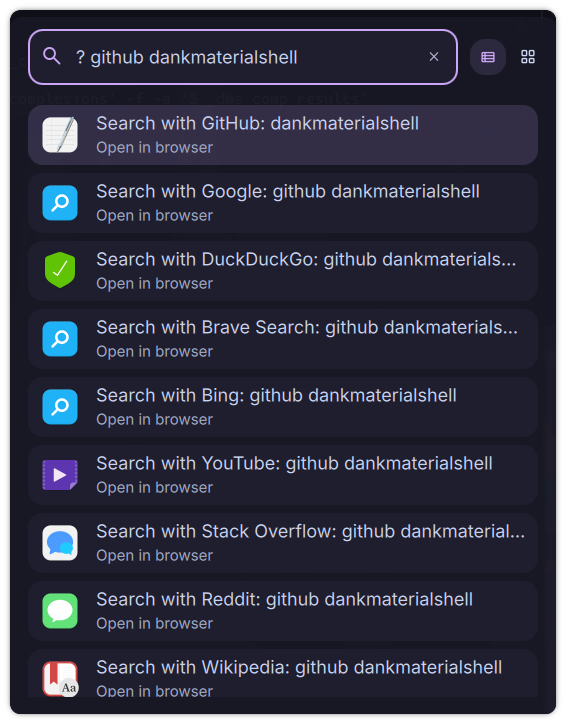
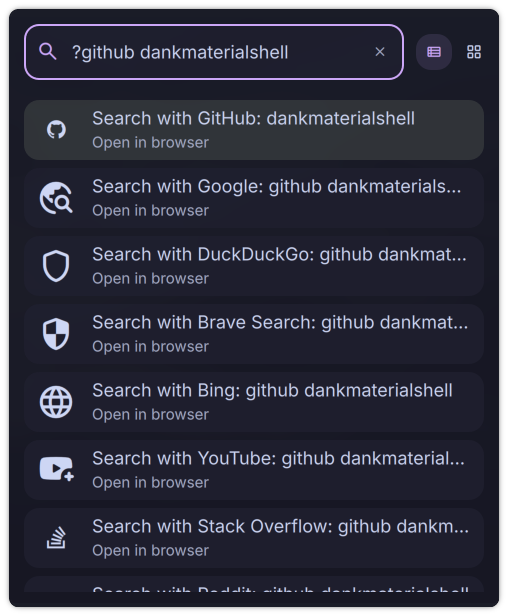
feat: improve search engine UI and documentation
- Rename "Arch Linux Packages" to "Arch Linux Wiki" with correct wiki URL for accurate results
- Update icons for YouTube, GitHub, IMDb, MDN and others to more appropriate symbols
- Remove unnecessary separator item from the engine list for cleaner UI
- Enhance README formatting and add clearer usage examples for better onboarding
- Replace screenshot with a smaller, updated image reflecting the UI changes

diff --git a/WebSearch.qml b/WebSearch.qml
@@ -44,14 +44,14 @@ Item {
         {
             id: "youtube",
             name: "YouTube",
-            icon: "material:smart_display",
+            icon: "material:youtube_activity",
             url: "https://www.youtube.com/results?search_query=%s",
             keywords: ["youtube", "video", "yt"]
         },
         {
             id: "github",
             name: "GitHub",
-            icon: "unicode:",
+            icon: "unicode:",
             url: "https://github.com/search?q=%s",
             keywords: ["github", "code", "git"]
         },
@@ -121,7 +121,7 @@ Item {
         {
             id: "imdb",
             name: "IMDb",
-            icon: "material:live_tv",
+            icon: "unicode:",
             url: "https://www.imdb.com/find?q=%s",
             keywords: ["imdb", "movies", "tv"]
         },
@@ -134,15 +134,15 @@ Item {
         },
         {
             id: "archlinux",
-            name: "Arch Linux Packages",
-            icon: "unicode:",
-            url: "https://archlinux.org/packages/?q=%s",
+            name: "Arch Linux Wiki",
+            icon: "material:terminal",
+            url: "https://wiki.archlinux.org/index.php?search=%s",
             keywords: ["arch", "linux", "packages"]
         },
         {
             id: "aur",
             name: "AUR",
-            icon: "unicode:",
+            icon: "unicode:",
             url: "https://aur.archlinux.org/packages?K=%s",
             keywords: ["aur", "arch", "packages"]
         },
@@ -170,7 +170,7 @@ Item {
         {
             id: "mdn",
             name: "MDN Web Docs",
-            icon: "material:book_online",
+            icon: "material:code_blocks",
             url: "https://developer.mozilla.org/en-US/search?q=%s",
             keywords: ["mdn", "mozilla", "web", "docs"]
         }
@@ -203,14 +203,6 @@ Item {
                 name: "Type a search query",
                 icon: "unicode:🔍",
                 comment: "Search the web with your default engine (" + getEngineName(defaultEngine) + ")",
-                action: "noop",
-                categories: ["Web Search"]
-            })
-
-            items.push({
-                name: "──────── Available Search Engines ────────",
-                icon: "apps",
-                comment: "Built-in and custom search engines",
                 action: "noop",
                 categories: ["Web Search"]
             })
@@ -266,7 +258,7 @@ Item {
             if (engine.id !== primaryEngineId) {
                 items.push({
                     name: "Search with " + engine.name + ": " + (matchedEngineId ? fallbackQuery : searchQuery),
-                    icon: engine.icon || "unicode:🔍",
+                    icon: engine.icon || "material:search",
                     comment: "Open in browser",
                     action: "search:" + engine.id + ":" + (matchedEngineId ? fallbackQuery : searchQuery),
                     categories: ["Web Search"]

diff --git a/README.md b/README.md
@@ -17,11 +17,13 @@ A DankMaterialShell launcher plugin for searching the web with 23+ built-in sear
 ## Installation
 
 ### From Plugin Registry (Recommended)
+
 ```bash
 # Coming soon - will be available via DMS plugin manager
 ```
 
 ### Manual Installation
+
 ```bash
 # Copy plugin to DMS plugins directory
 cp -r WebSearch ~/.config/DankMaterialShell/plugins/
@@ -36,6 +38,7 @@ cp -r WebSearch ~/.config/DankMaterialShell/plugins/
 ## Usage
 
 ### Basic Search
+
 1. Open launcher (Ctrl+Space)
 2. Type `?` followed by search query
 3. Examples:
@@ -44,7 +47,9 @@ cp -r WebSearch ~/.config/DankMaterialShell/plugins/
 4. Select engine and press Enter to open browser
 
 ### Engine-Specific Search
+
 Use keywords to search specific engines directly:
+
 - `? github awesome-linux` - Search GitHub
 - `? youtube music video` - Search YouTube
 - `? wiki quantum physics` - Search Wikipedia
@@ -53,12 +58,14 @@ Use keywords to search specific engines directly:
 ## Built-in Search Engines
 
 ### General Search
+
 - **Google** - Keywords: `google`, `search`
 - **DuckDuckGo** - Keywords: `ddg`, `duckduckgo`, `privacy`
 - **Brave Search** - Keywords: `brave`, `privacy`
 - **Bing** - Keywords: `bing`, `microsoft`
 
 ### Development
+
 - **GitHub** - Keywords: `github`, `code`, `git`
 - **Stack Overflow** - Keywords: `stackoverflow`, `stack`, `coding`
 - **npm** - Keywords: `npm`, `node`, `javascript`
@@ -67,25 +74,30 @@ Use keywords to search specific engines directly:
 - **MDN Web Docs** - Keywords: `mdn`, `mozilla`, `web`, `docs`
 
 ### Linux & Packages
-- **Arch Linux Packages** - Keywords: `arch`, `linux`, `packages`
+
+- **Arch Linux Wiki** - Keywords: `arch`, `linux`, `packages`
 - **AUR** - Keywords: `aur`, `arch`, `packages`
 
 ### Social & Media
+
 - **YouTube** - Keywords: `youtube`, `video`, `yt`
 - **Reddit** - Keywords: `reddit`
 - **Twitter/X** - Keywords: `twitter`, `x`, `social`
 - **LinkedIn** - Keywords: `linkedin`, `job`, `professional`
 
 ### Reference
+
 - **Wikipedia** - Keywords: `wikipedia`, `wiki`
 - **Google Translate** - Keywords: `translate`, `translation`
 - **IMDb** - Keywords: `imdb`, `movies`, `tv`
 
 ### Shopping
+
 - **Amazon** - Keywords: `amazon`, `shop`, `shopping`
 - **eBay** - Keywords: `ebay`, `shop`, `auction`
 
 ### Utilities
+
 - **Google Maps** - Keywords: `maps`, `location`, `directions`
 - **Google Images** - Keywords: `images`, `pictures`, `photos`
 
@@ -105,6 +117,7 @@ Add your own search engines via Settings:
 ### Example Custom Engines
 
 **Rust Documentation:**
+
 ```
 ID: rustdoc
 Name: Rust Docs
@@ -114,6 +127,7 @@ Keywords: rust,docs,documentation
 ```
 
 **Arch Wiki:**
+
 ```
 ID: archwiki
 Name: Arch Wiki
@@ -123,6 +137,7 @@ Keywords: arch,wiki,documentation
 ```
 
 **GitLab:**
+
 ```
 ID: gitlab
 Name: GitLab
@@ -142,12 +157,14 @@ Access settings via DMS Settings → Plugins → Web Search:
 ## Search Examples
 
 ### General Queries
+
 ```
 ? rust programming         # Search with default engine
 ? how to install arch      # General search
 ```
 
 ### Development
+
 ```
 ? github awesome-linux     # Search GitHub
 ? stackoverflow async rust # Search Stack Overflow
@@ -156,6 +173,7 @@ Access settings via DMS Settings → Plugins → Web Search:
 ```
 
 ### Linux
+
 ```
 ? arch firefox             # Search Arch packages
 ? aur brave-bin            # Search AUR
@@ -163,6 +181,7 @@ Access settings via DMS Settings → Plugins → Web Search:
 ```
 
 ### Media
+
 ```
 ? youtube rust tutorial    # Search YouTube
 ? reddit linux gaming      # Search Reddit
